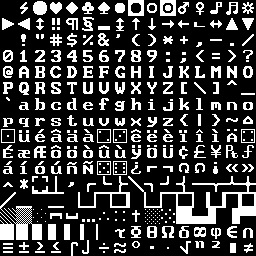
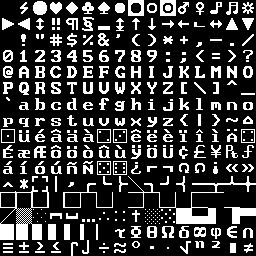
Fix 16x16 walls.

Changed region(s): [[0.0, 0.7188, 1.0, 0.875], [0.5, 0.6875, 0.5312, 0.7188]]

diff --git a/StrictCurses/StrictCursesDemo.java b/StrictCurses/StrictCursesDemo.java
@@ -28,7 +28,7 @@ public class StrictCursesDemo extends JFrame implements SCConstants, ActionListe
       
       panel1 = new SCPanel(palette, 16, 17);
       panel2 = new SCPanel(palette, 16, 17);
-      panel3 = new SCPanel(palette, 16, 17);
+      panel3 = new SCPanel(palette, 16, 20);
       panel2.setMaintainRatio(false);
       
       panel1.writeLine(0, 0, " Maintain Ratio");
@@ -71,6 +71,7 @@ public class StrictCursesDemo extends JFrame implements SCConstants, ActionListe
       }
       
       setBoxTiles();
+      setWallTiles();
       
       add(panel1);
       add(panel2);
@@ -124,6 +125,27 @@ public class StrictCursesDemo extends JFrame implements SCConstants, ActionListe
             panel3.setTileIndex(x + startX, y + startY, BOX_TILE_ORIGIN + adjacencyArr[x][y]);
    }
    
+   private void setWallTiles()
+   {
+      char[][] wallArr = {{' ',' ',' ','#',' ',' ',' '},
+                          {' ','#','#','#','#','#',' '},
+                          {' ','#',' ','#',' ','#',' '},
+                          {'#','#','#','#','#','#','#'},
+                          {' ','#',' ','#',' ','#',' '},
+                          {' ','#','#','#','#','#',' '},
+                          {' ',' ',' ','#',' ',' ',' '}};
+      int width = wallArr.length;
+      int height = wallArr[0].length;
+      int[][] adjacencyArr = getAdjacencyArray(wallArr);
+      
+      int startX = 8;
+      int startY = 10;
+      for(int x = 0; x < width; x++)
+      for(int y = 0; y < height; y++)
+         if(wallArr[x][y] == '#')
+            panel3.setTileIndex(x + startX, y + startY, WALL_TILE_ORIGIN + adjacencyArr[x][y]);
+   }
+   
    public void actionPerformed(ActionEvent ae)
    {
       int xLoc = Math.max(Math.max(panel1.getMouseLocTile()[0], panel2.getMouseLocTile()[0]), panel3.getMouseLocTile()[0]);
@@ -133,8 +155,8 @@ public class StrictCursesDemo extends JFrame implements SCConstants, ActionListe
          panelNum = 2;
       if(panel3.getMouseLocTile()[0] != -1)
          panelNum = 3;
-      panel3.fillTile(0, 16, 16, 1, ' ', DEFAULT_FG_COLOR, DEFAULT_BG_COLOR);
-      panel3.writeLine(0, 16, String.format("Panel%d [%d][%d]", panelNum, xLoc, yLoc));
+      panel3.fillTile(0, 19, 19, 1, ' ', DEFAULT_FG_COLOR, DEFAULT_BG_COLOR);
+      panel3.writeLine(0, 19, String.format("Panel%d [%d][%d]", panelNum, xLoc, yLoc));
       flipColors(panelNum, xLoc, yLoc);
       repaint();
    }
